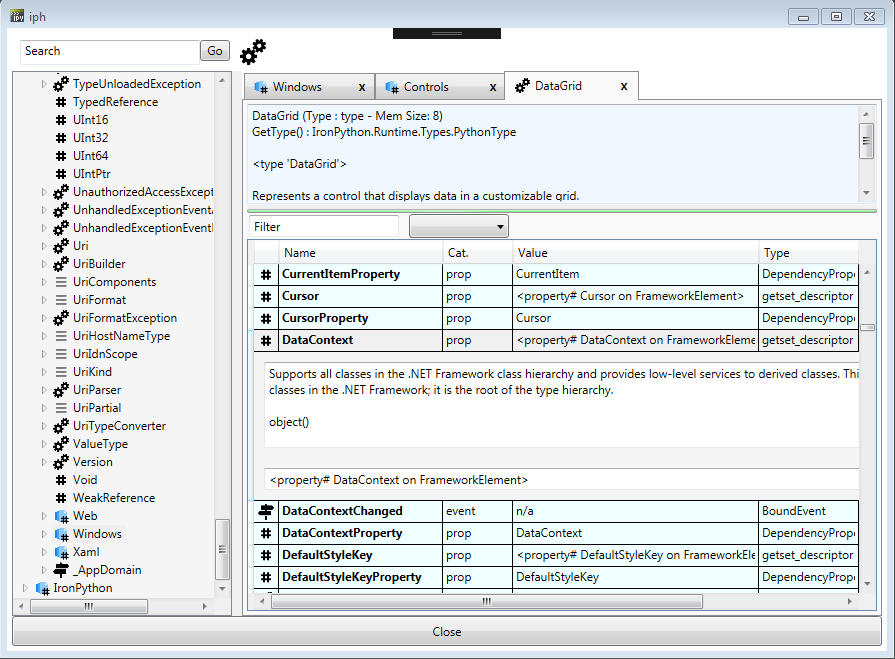
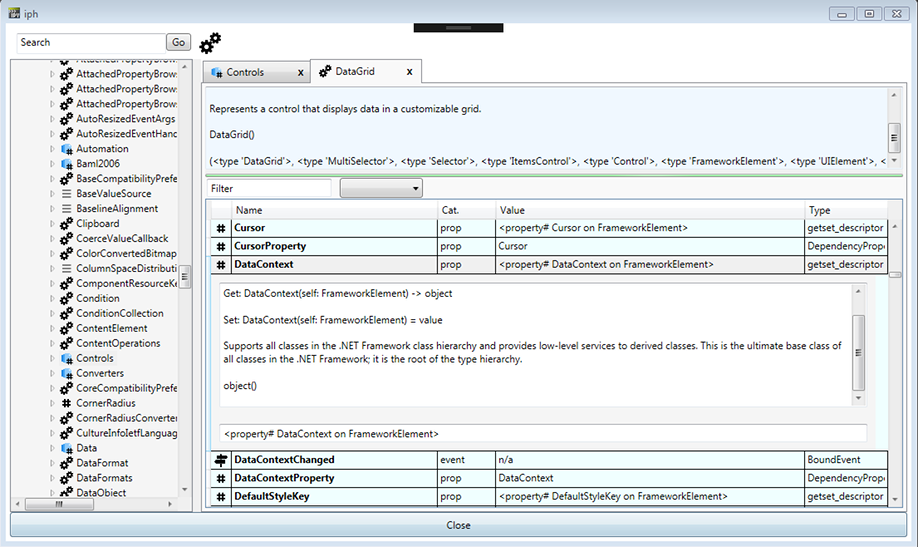
fix routed event doc and getset_descriptor + boundevent tab display

diff --git a/iph/ana/details.py b/iph/ana/details.py
@@ -34,10 +34,25 @@ def get_event_doc(refobject):
     '''
     return refobject.Event.__doc__
 
+def get_rout_event_doc(refobject):
+    '''
+    '''
+    try:
+        doc = refobject.Name
+        doc += '\nHandler Type: ' + str(refobject.HandlerType)
+        doc += '\nOwner Type: ' + str(refobject.OwnerType)
+        doc += '\nRouting Strategy : ' + str(refobject.RoutingStrategy)
+    except Exception as error:
+        logger.debug('function get_rout_event_doc :'+str(error))
+        doc = get_doc(refobject)
+    return doc
+
 def get_indexer_doc(refobject): #
     ''' indexer  getset_descriptor
     '''
-    return refobject.PropertyType.__doc__
+    doc = get_doc(refobject)
+    doc += '\n' + refobject.PropertyType.__doc__
+    return doc
 
 def get_std_doc(refobject):
     ''' str, bool int float ...

diff --git a/iph/core/tabs.py b/iph/core/tabs.py
@@ -50,7 +50,7 @@ class TabViewItem(BaseNotifier):
                         self.model.type, 
                         sys.getsizeof(ref))
         self.maindoc += '\nGetType() : ' + str(clr.GetClrType(type(ref)))
-        self.maindoc += '\n'*2 + self.model.templ_value(ref)
+        self.maindoc += '\n'*2 + str(self.model.templ_value(ref))
         self.maindoc += '\n'*2 + str(self.model.templ_doc(ref))
         
 

diff --git a/iph/ana/anatable.py b/iph/ana/anatable.py
@@ -194,7 +194,7 @@ TYPES_TABLE = {
                'category' : 'event',
              'members' : None,
              'value' : get_std_value,
-             'doc' : get_doc
+             'doc' : get_rout_event_doc
              },
 
 'BoundEvent':{'icon': 'interface',
